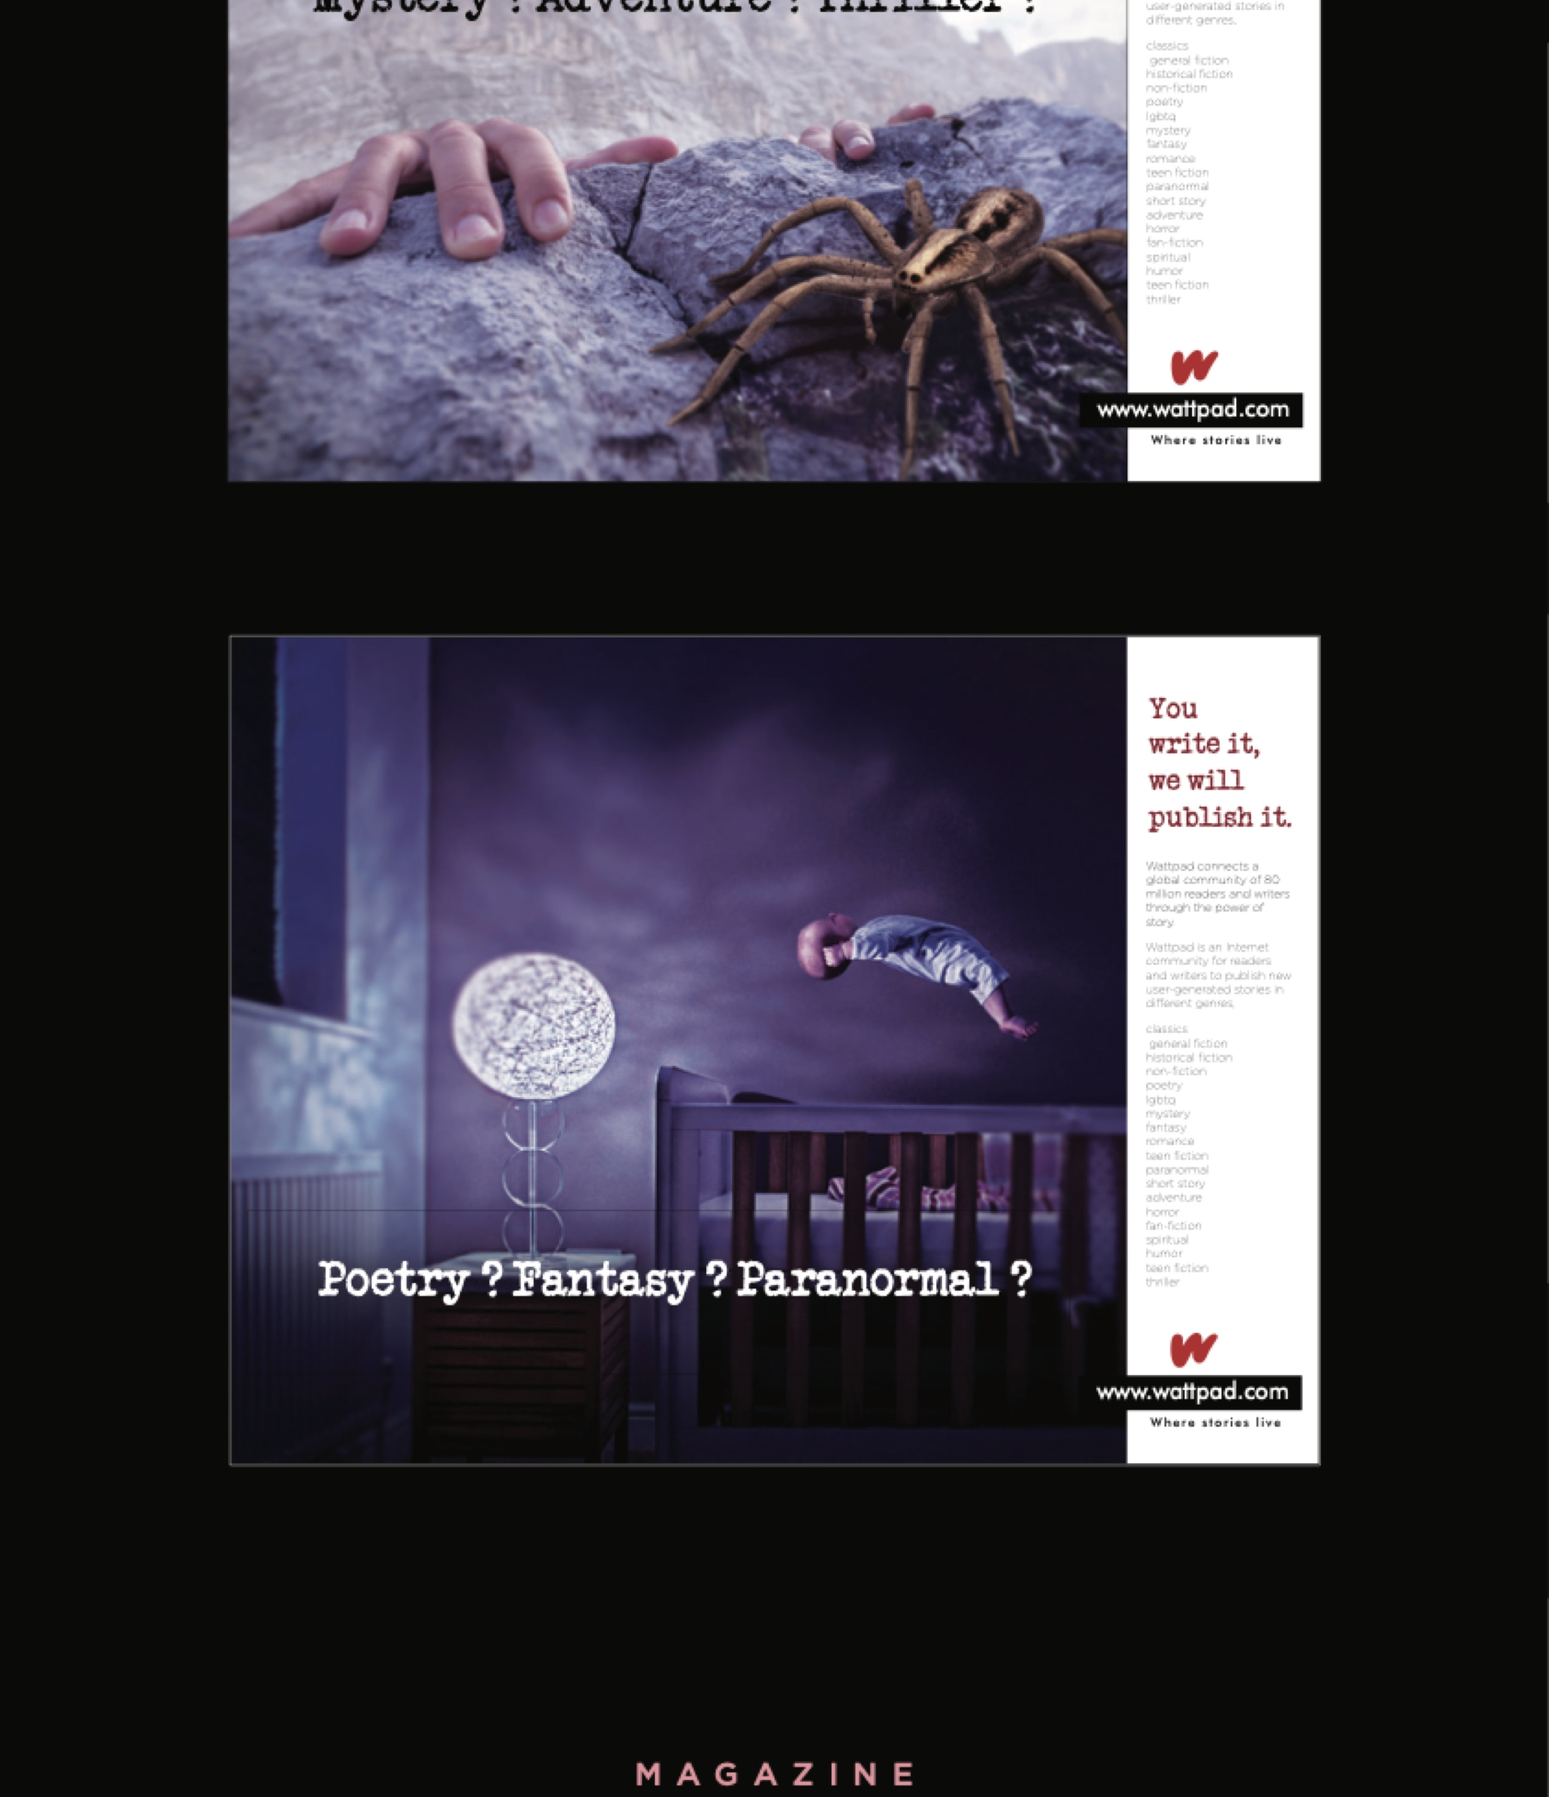
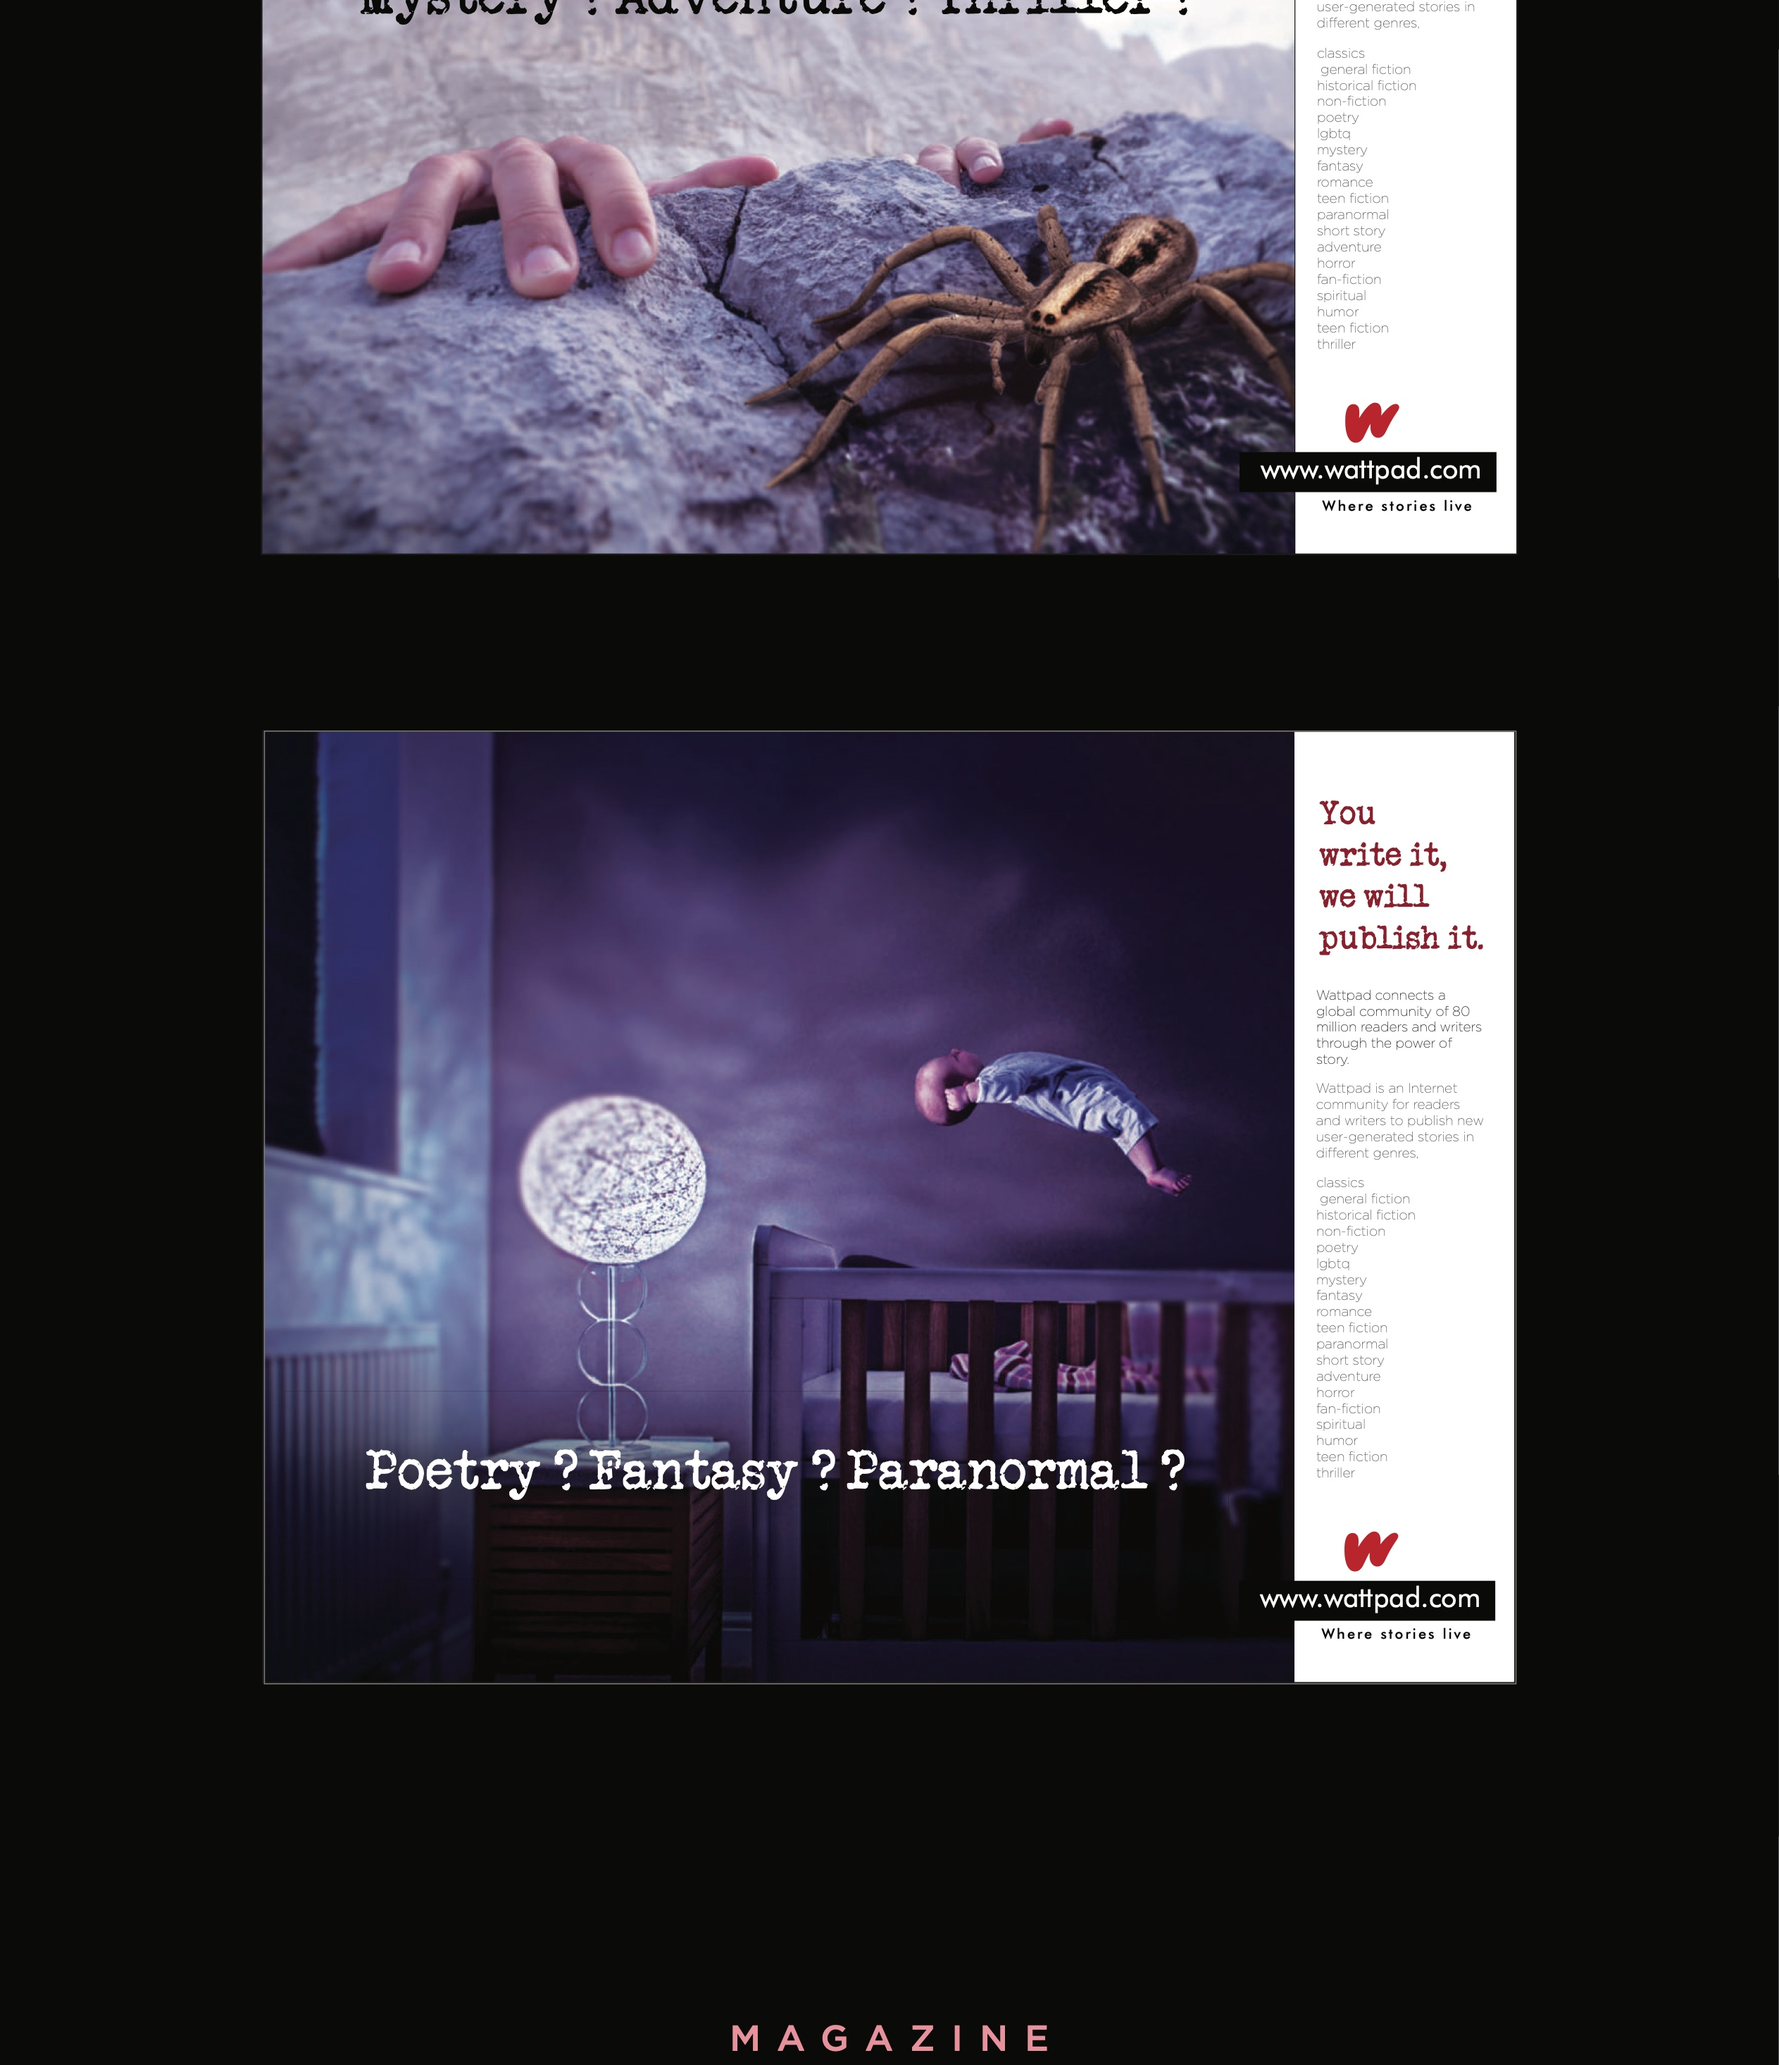
Render ultra-crisp native Quartz 3x vector slices (2526px) and add interactive Vector PDF viewer tab

diff --git a/Codes/index.html b/Codes/index.html
@@ -5,7 +5,7 @@
 	<meta name="viewport" content="width=device-width, initial-scale=1">
 	<meta name="theme-color" content="#171713">
 	<title>Bharati Kamble | Visual Designer</title>
-	<link rel="stylesheet" href="portfolio.css?v=49">
+	<link rel="stylesheet" href="portfolio.css?v=50">
 </head>
 <body>
 	<header class="site-header">
@@ -382,7 +382,10 @@
 			<!-- Interactive Tab Navigation -->
 			<div class="assessment-nav" role="tablist">
 				<button class="assessment-tab is-active" type="button" data-wattpad-tab="presentation" role="tab" aria-selected="true">
-					<span class="tab-icon">📖</span> Campaign Presentation
+					<span class="tab-icon">📖</span> High-Res Presentation
+				</button>
+				<button class="assessment-tab" type="button" data-wattpad-tab="vectorpdf" role="tab" aria-selected="false">
+					<span class="tab-icon">📄</span> Vector PDF (Zoomable)
 				</button>
 				<button class="assessment-tab" type="button" data-wattpad-tab="overview" role="tab" aria-selected="false">
 					<span class="tab-icon">💡</span> Concept &amp; Strategy
@@ -415,18 +418,25 @@
 
 					<div class="pdf-scroll-viewport" id="wattpad-scroll-viewport" tabindex="0" role="region" aria-label="Wattpad campaign presentation">
 						<div class="pdf-scroll-track" id="wattpad-scroll-track">
-							<img src="assets/college/wattpad-slice-1.jpg?v=3" alt="Wattpad Campaign - Part 1" loading="eager" draggable="false">
-							<img src="assets/college/wattpad-slice-2.jpg?v=3" alt="Wattpad Campaign - Part 2" loading="eager" draggable="false">
-							<img src="assets/college/wattpad-slice-3.jpg?v=3" alt="Wattpad Campaign - Part 3" loading="lazy" draggable="false">
-							<img src="assets/college/wattpad-slice-4.jpg?v=3" alt="Wattpad Campaign - Part 4" loading="lazy" draggable="false">
-							<img src="assets/college/wattpad-slice-5.jpg?v=3" alt="Wattpad Campaign - Part 5" loading="lazy" draggable="false">
-							<img src="assets/college/wattpad-slice-6.jpg?v=3" alt="Wattpad Campaign - Part 6" loading="lazy" draggable="false">
+							<img src="assets/college/wattpad-slice-1.jpg?v=4" alt="Wattpad Campaign - Part 1" loading="eager" draggable="false">
+							<img src="assets/college/wattpad-slice-2.jpg?v=4" alt="Wattpad Campaign - Part 2" loading="eager" draggable="false">
+							<img src="assets/college/wattpad-slice-3.jpg?v=4" alt="Wattpad Campaign - Part 3" loading="lazy" draggable="false">
+							<img src="assets/college/wattpad-slice-4.jpg?v=4" alt="Wattpad Campaign - Part 4" loading="lazy" draggable="false">
+							<img src="assets/college/wattpad-slice-5.jpg?v=4" alt="Wattpad Campaign - Part 5" loading="lazy" draggable="false">
+							<img src="assets/college/wattpad-slice-6.jpg?v=4" alt="Wattpad Campaign - Part 6" loading="lazy" draggable="false">
 						</div>
 					</div>
 				</div>
 			</div>
 
-			<!-- Tab Panel 2: Concept & Strategy Overview -->
+			<!-- Tab Panel 2: Direct Vector PDF Viewer -->
+			<div class="assessment-panel" id="wattpad-panel-vectorpdf" role="tabpanel">
+				<div class="pdf-embed-wrapper" style="width: 100%; height: min(65vh, 600px); min-height: 420px; border-radius: 6px; overflow: hidden; background: #1c1917; border: 1px solid rgba(40, 36, 30, 0.28); box-shadow: 0 16px 36px rgba(0, 0, 0, 0.32);">
+					<iframe src="assets/college/Wattpad%20CAMPAIGN2.pdf#view=FitH&toolbar=1" width="100%" height="100%" style="border: 0; display: block;" title="Wattpad Campaign Vector PDF Viewer"></iframe>
+				</div>
+			</div>
+
+			<!-- Tab Panel 3: Concept & Strategy Overview -->
 			<div class="assessment-panel" id="wattpad-panel-overview" role="tabpanel">
 				<div class="overview-grid">
 					<div class="overview-card">

diff --git a/Codes/portfolio.css b/Codes/portfolio.css
@@ -1080,6 +1080,12 @@ dialog::backdrop { background: rgba(10, 10, 8, 0.85); backdrop-filter: blur(10px
 	background: #0c0a09;
 }
 
+.assessment-dialog.is-fullscreen .pdf-embed-wrapper {
+	height: 100% !important;
+	max-height: none !important;
+	flex: 1 1 auto;
+}
+
 .assessment-dialog.is-fullscreen .pdf-scroll-track {
 	display: flex;
 	flex-direction: column;
